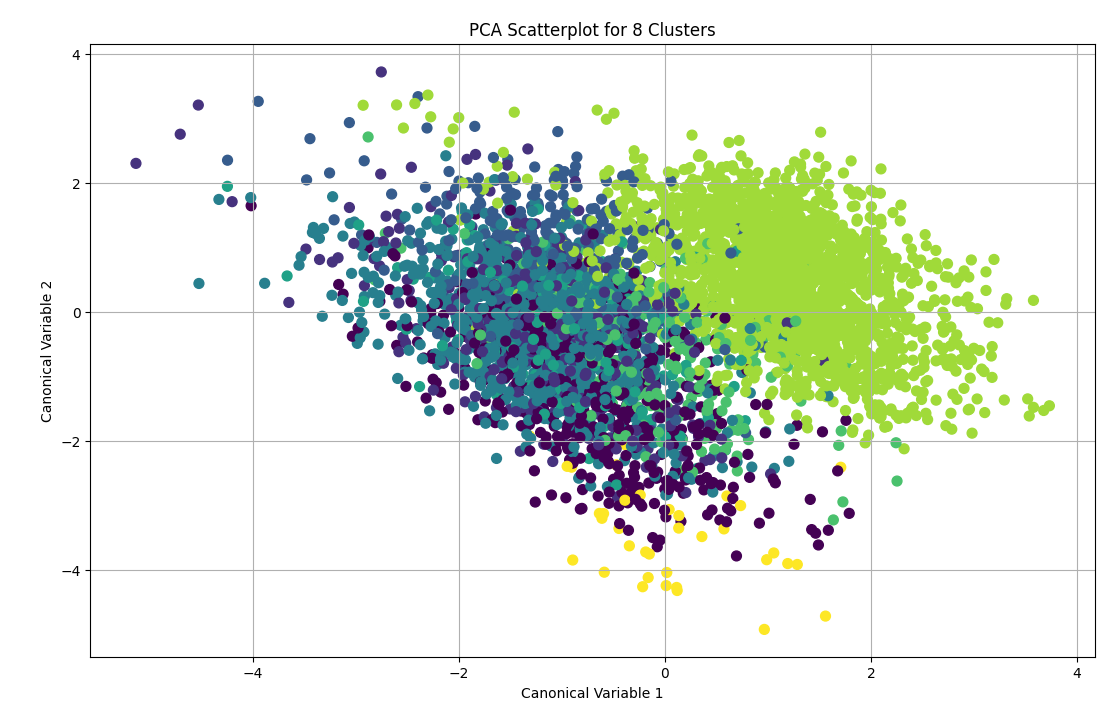
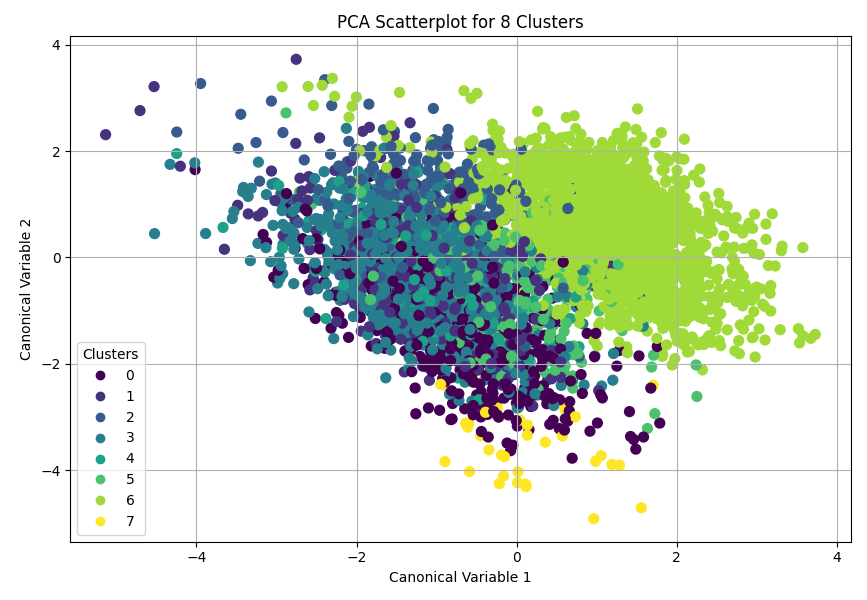
Finish kmeans index analysis

diff --git a/kmeans-cluster_so2024dev_survey.py b/kmeans-cluster_so2024dev_survey.py
@@ -122,7 +122,13 @@ class App:
 
         if view_plt:
             plt.figure(figsize=(8, 6))
-            plt.scatter(principal_component_1, principal_component_2, c=cluster_assignments, cmap='viridis', s=50)
+            scatter = plt.scatter(
+                principal_component_1, 
+                principal_component_2, 
+                c=cluster_assignments, 
+                cmap='viridis',
+                s=50)
+            plt.legend(*scatter.legend_elements(), loc="lower left", title="Clusters")
             plt.xlabel('Canonical Variable 1')
             plt.ylabel('Canonical Variable 2')
             plt.title(f'PCA Scatterplot for {model.n_clusters} Clusters')
@@ -150,7 +156,7 @@ seed = 1001
 app = App(df, ["ai_sent", "comp_usd"], test_size=0.01, seed=seed)
 
 cluster_model = app.create_optimal_kmeans_cluster_model(3, 12)
-canx, cany = app.get_cluster_canonical_variables(cluster_model)
+canx, cany = app.get_cluster_canonical_variables(cluster_model, True)
 results = pd.DataFrame(app.model_set.for_training, columns=app.feature_names)
 # Validate using ai_sent
 print("Adding target columns:\n" + str(app.target_set.for_training))

diff --git a/kmeans_index.md b/kmeans_index.md
@@ -1,5 +1,17 @@
 # Introduction
-TODO
+A K-means cluster analysis was conducted on Stack Overflow's 2024 software developer survey results to identify characteristics that affect developers' opinion on the threat of generative AI on their careers. Clustering variables included binary variables (one-hot encoding) of career type, ordinal variables for education level and organization size, and years spent coding non-professionally was included quantitatively. See [Pre-Cleaning Process](cleaning_process.md) and [source code](kmeans-cluster_so2024dev_survey.py) for details.
+
+Data was not split into training / testing sets as validation through testing was not necessary for the purpose of creating clusters. All cleaned records were used in k-means cluster analyses with 3-11 (`create_optimal_kmeans_cluster_model(3, 12)`) clusters using Euclidean distance. K was optimized using the elbow curve method, automatically found using the second derivative of mean distance to cluster centroid per cluster count (see figure 1).
+
+Figure 1. Change in mean distance to cluster centroid amongst clustered p-dimensional data points
+![](images/cluster-optimal-k.png)
+
+Plotted, it may appear that the sharpest drop in variance reduction came at k=10. The second derivative of this curve (change in the rate of change) shows that k=8 has the sharpest drop.
+
+Canonical discriminant analysis was used to reduce the clustering variables down to two variables that account for the the majority of variance amongst clustering variables. A scatterplot of the first two canonical variables by cluster (see figure 2) indicates distinctness amongst clusters 6 (execs + front end), 7 (academia), and to a lesser extent 0 (native). The overlap seen in other clusters indicates similar working environments for the remaining career types.
+
+Figure 2. Clusters scatter plotted on two canonical variables
+![](images/cluster-scatterplot.png)
 
 # [Pre-Cleaning Process](cleaning_process.md)
 The process by which values from the developer survey were organized into features, and discussion of the features themselves. 4803 records were left after cleaning.
@@ -8,10 +20,20 @@ The process by which values from the developer survey were organized into featur
 To reduce bias in clustering, StandardScalar normalization was used on features before running them through the K-Means process.
 
 # Results
+Mean values found within each cluster produced the table below.
+See [the full annotated XLSX](cluster-results.xlsx) for details.
 
-Figure 1. Change in mean distance to cluster centroid amongst clustered p-dimensional data points
-![](images/cluster-optimal-k.png)
-Figure 2. Clusters scatter plotted on two canonical variables (variables with greatest and second greatest TODO)
-![](images/cluster-scatterplot.png)
+| Cluster# | Types            | Traits                                                                                  |
+|----------|------------------|-----------------------------------------------------------------------------------------|
+| 0        | Native           |                                                                                         |
+| 1        | DataScienceAndAI | High edu                                                                                |
+| 2        | Managers         | High pay, high age,   high AI opinion                                                   |
+| 3        | BackEnd          |                                                                                         |
+| 4        | DevSupport       | Low AI opinion, big   org                                                               |
+| 5        | FullStack        | High AI threat, low   edu, high remote work, short history of coding                    |
+| 6        | Execs, FrontEnd  | Small org                                                                               |
+| 7        | Academia         | Low pay, low age, low   AI threat, highest edu, low remote work, long history of coding |
 
-TODO
+We find that the group which views generative AI as the highest threat to be full stack developers (cluster 5), who also showed the lowest education amount, highest degrees of remote work, and shortest history of coding nonprofessionally.
+
+The group that least viewed generative AI as a threat to their jobs were those in academia (cluster 7), who were also shown to have the highest mean education level and longest history of coding nonprofessionally.
